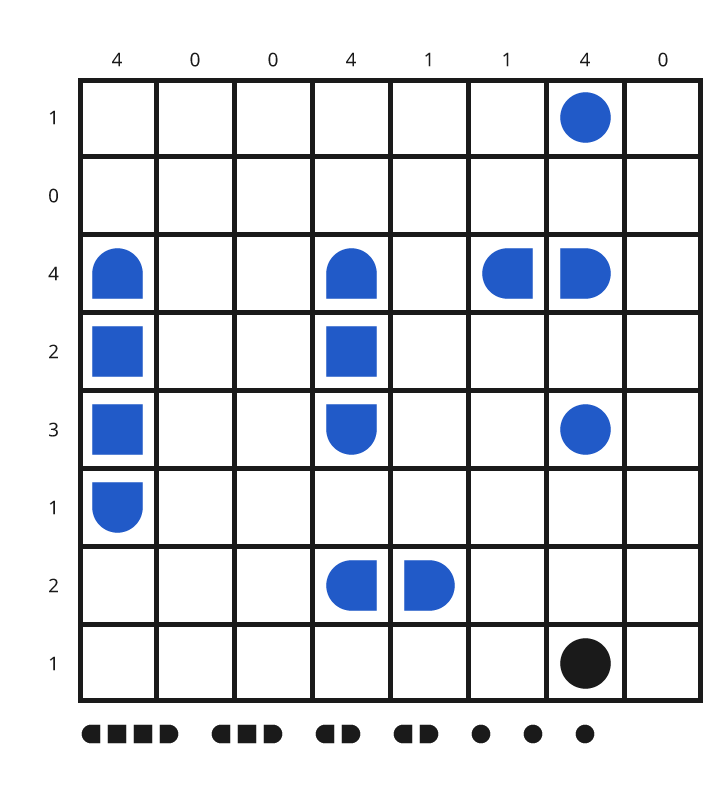
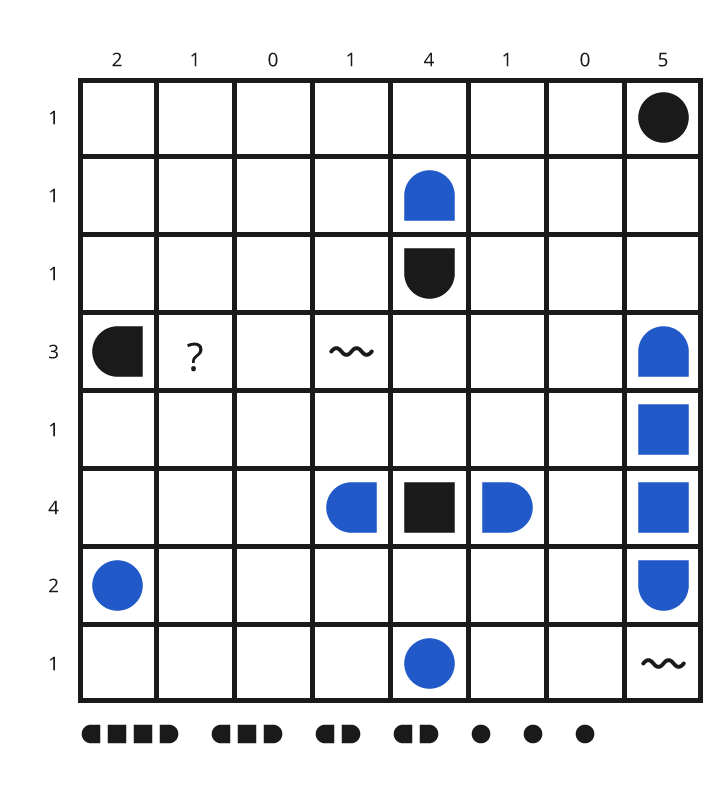
Add three Battleships puzzles showing every given-clue style
Retain water, unspecified segments, singles, ends and middles in unique medium-hard 8x8 boards; preserve the existing hard board as number 4. Cover symbol rendering, export clues, fleet necessity and measured grades.

diff --git a/tests/test_battleships.py b/tests/test_battleships.py
@@ -162,6 +162,36 @@ def test_gallery_fleets_are_nontrivial_and_need_the_ship_rules(path):
     assert len(brute.solutions(plain)) == 2
 
 
+@pytest.mark.parametrize(
+    ("name", "grade"),
+    [
+        ("battleships_2_8x8_fleet.txt", "count"),
+        ("battleships_3_8x8_fleet.txt", "subsumption"),
+        ("battleships_5_8x8_fleet.txt", "chains"),
+    ],
+)
+def test_clue_variety_examples_show_every_explained_symbol_without_lowering_difficulty(name, grade):
+    from csp.puzzle_lab import rate
+    from tests.examples import example
+
+    text = example(name).read_text()
+    puzzle = parse(text)
+    tokens = [token for row in puzzle.segments for token in row]
+    assert {"0", "1", "O", "M"} <= set(tokens)
+    assert set(tokens) & {"N", "S", "E", "W"}
+    assert sum(token != "." for token in tokens) < puzzle.size**2 / 4
+    assert any(
+        token == "0" and puzzle.row_counts[r] and puzzle.column_counts[c]
+        for r, row in enumerate(puzzle.segments)
+        for c, token in enumerate(row)
+    ), "Include water that is not already implied by an empty row or column"
+    rating = rate(text)
+    assert rating.solutions == "unique"
+    assert rating.tier in {"medium", "hard"}
+    assert rating.grade == grade
+    assert "what_if" not in rating.rule_firings
+
+
 def test_fleet_mutation_preserves_the_rules_and_never_permutes_lines():
     import random
 

diff --git a/tests/test_picture.py b/tests/test_picture.py
@@ -850,6 +850,27 @@ def test_battleships_diagram_shows_fleet_and_keeps_interactive_solution_hidden()
     assert blank.size[1] > (puzzle.size + 1) * CELL
 
 
+@pytest.mark.parametrize("number", [2, 3, 5])
+def test_battleships_varied_clues_are_drawn_on_the_unsolved_playable_board(number, monkeypatch):
+    from csp import battleships
+
+    puzzle = battleships.parse(example(f"battleships_{number}_8x8_fleet.txt").read_text())
+    values = []
+    original = drawing._value
+
+    def capture(canvas, value, colour, x, y, cell, size):
+        values.append(value.name if isinstance(value, drawing.Mark) else value)
+        original(canvas, value, colour, x, y, cell, size)
+
+    monkeypatch.setattr(drawing, "_value", capture)
+    canvas = drawing.battleships_picture(puzzle, cell=CELL, interactive=True)
+    assert {"water", "?", "ship_single", "ship_middle"} <= set(values)
+    assert set(values) & {"ship_north", "ship_south", "ship_east", "ship_west"}
+    assert values.count("water") == sum(row.count("0") for row in puzzle.segments)
+    assert values.count("?") == sum(row.count("1") for row in puzzle.segments)
+    assert canvas.to_svg().count('class="cell"') == 64
+
+
 def test_sudoku_variant_picture_marks_kropki_and_thermometer_links():
     from csp import sudoku
 

diff --git a/tests/test_web.py b/tests/test_web.py
@@ -191,6 +191,29 @@ def test_dutch_battleships_web_rules():
     assert "volledige vloot" in data["rules"][0]
 
 
+@pytest.mark.parametrize("number", [2, 3, 5])
+def test_varied_battleships_export_preserves_ship_and_water_clues(exported, number):
+    from csp import battleships
+
+    name = f"battleships_{number}_8x8_fleet"
+    puzzle = battleships.parse(example(f"{name}.txt").read_text())
+    bundle = _bundle(exported, name)
+    blocked = bundle["placement"]["blocked"]
+    assert "question mark" in " ".join(bundle["rules"])
+    for r, row in enumerate(puzzle.givens, 1):
+        for c, given in enumerate(row, 1):
+            cell = f"r{r}c{c}"
+            if given == 0:
+                assert cell in blocked
+                assert cell not in bundle["givens"]
+            elif given == 1:
+                assert bundle["givens"][cell] == "ship"
+            else:
+                assert cell not in blocked
+                assert cell not in bundle["givens"]
+    assert "?" in (exported / bundle["static"]).read_text()
+
+
 def test_export_fails_when_a_puzzle_cannot_be_exported(tmp_path, capsys):
     broken = tmp_path / "broken.txt"
     broken.write_text("this is not a puzzle\n")

diff --git a/benchmark/families.py b/benchmark/families.py
@@ -79,7 +79,7 @@ CASES = (
     "kakurasu_1_4x4.txt",
     "kakurasu_2_8x8.txt",
     "battleships_1_6x6_fleet.txt",
-    "battleships_2_8x8_fleet.txt",
+    "battleships_4_8x8_fleet.txt",
 )
 
 
